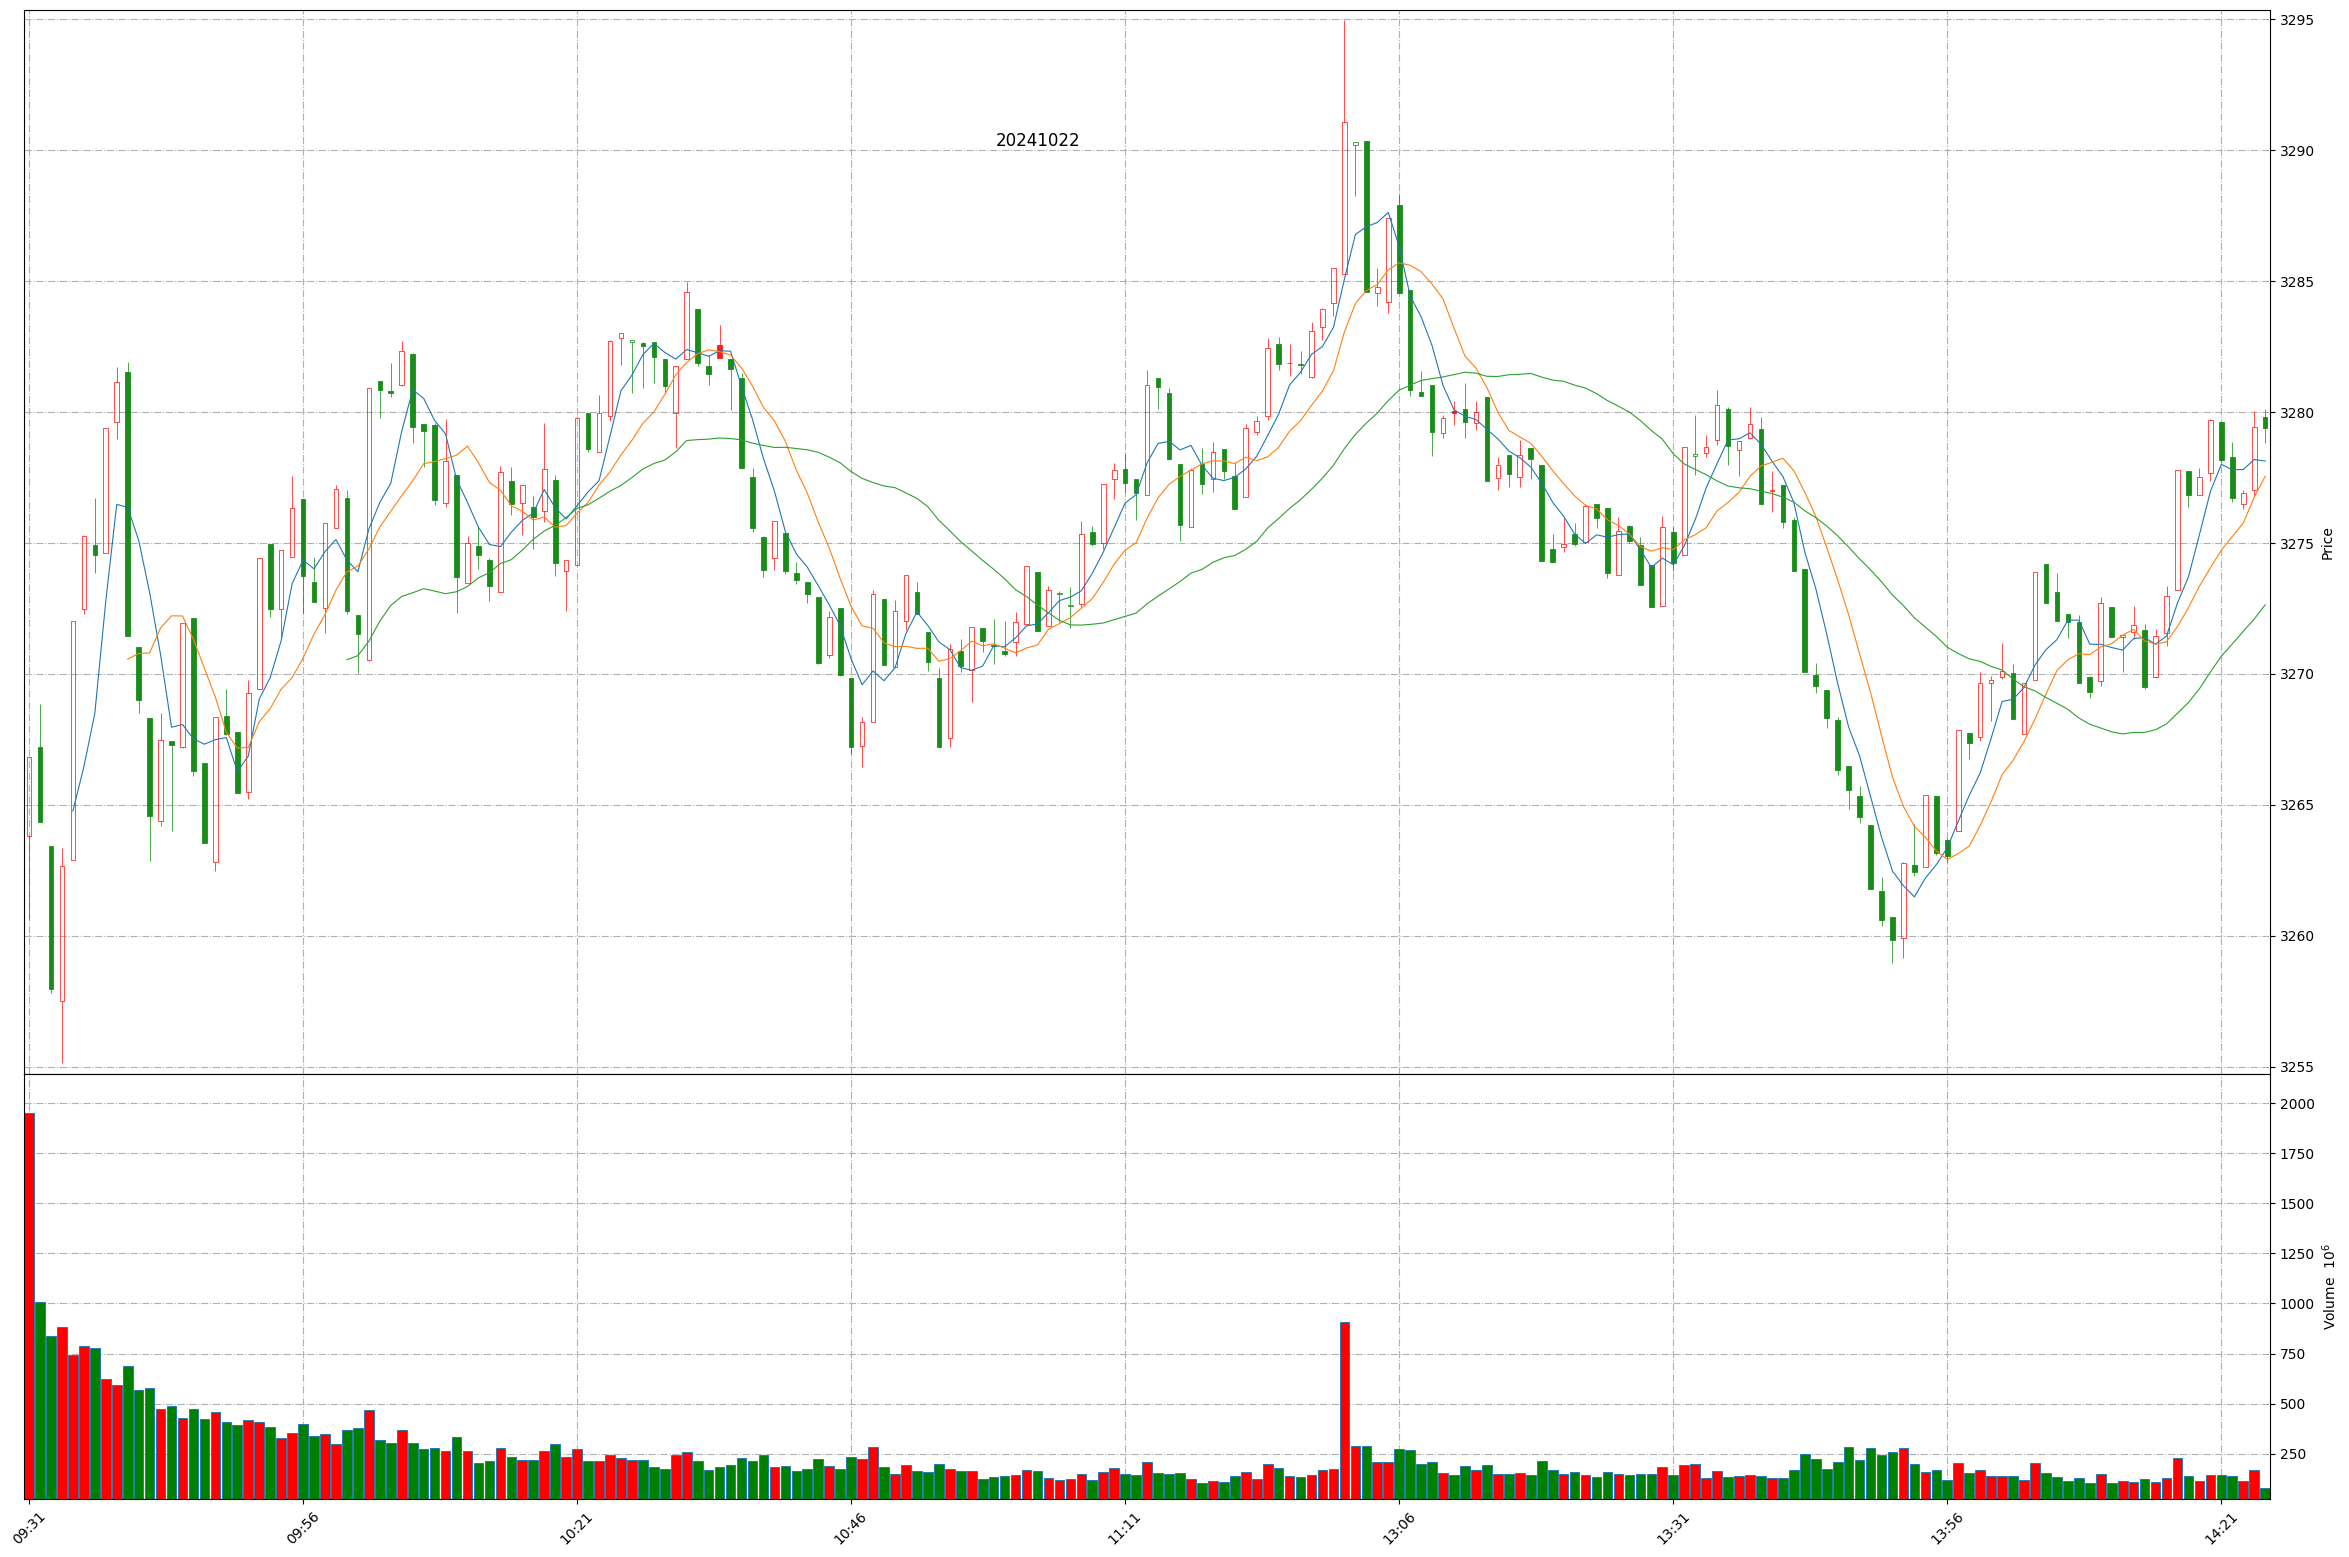
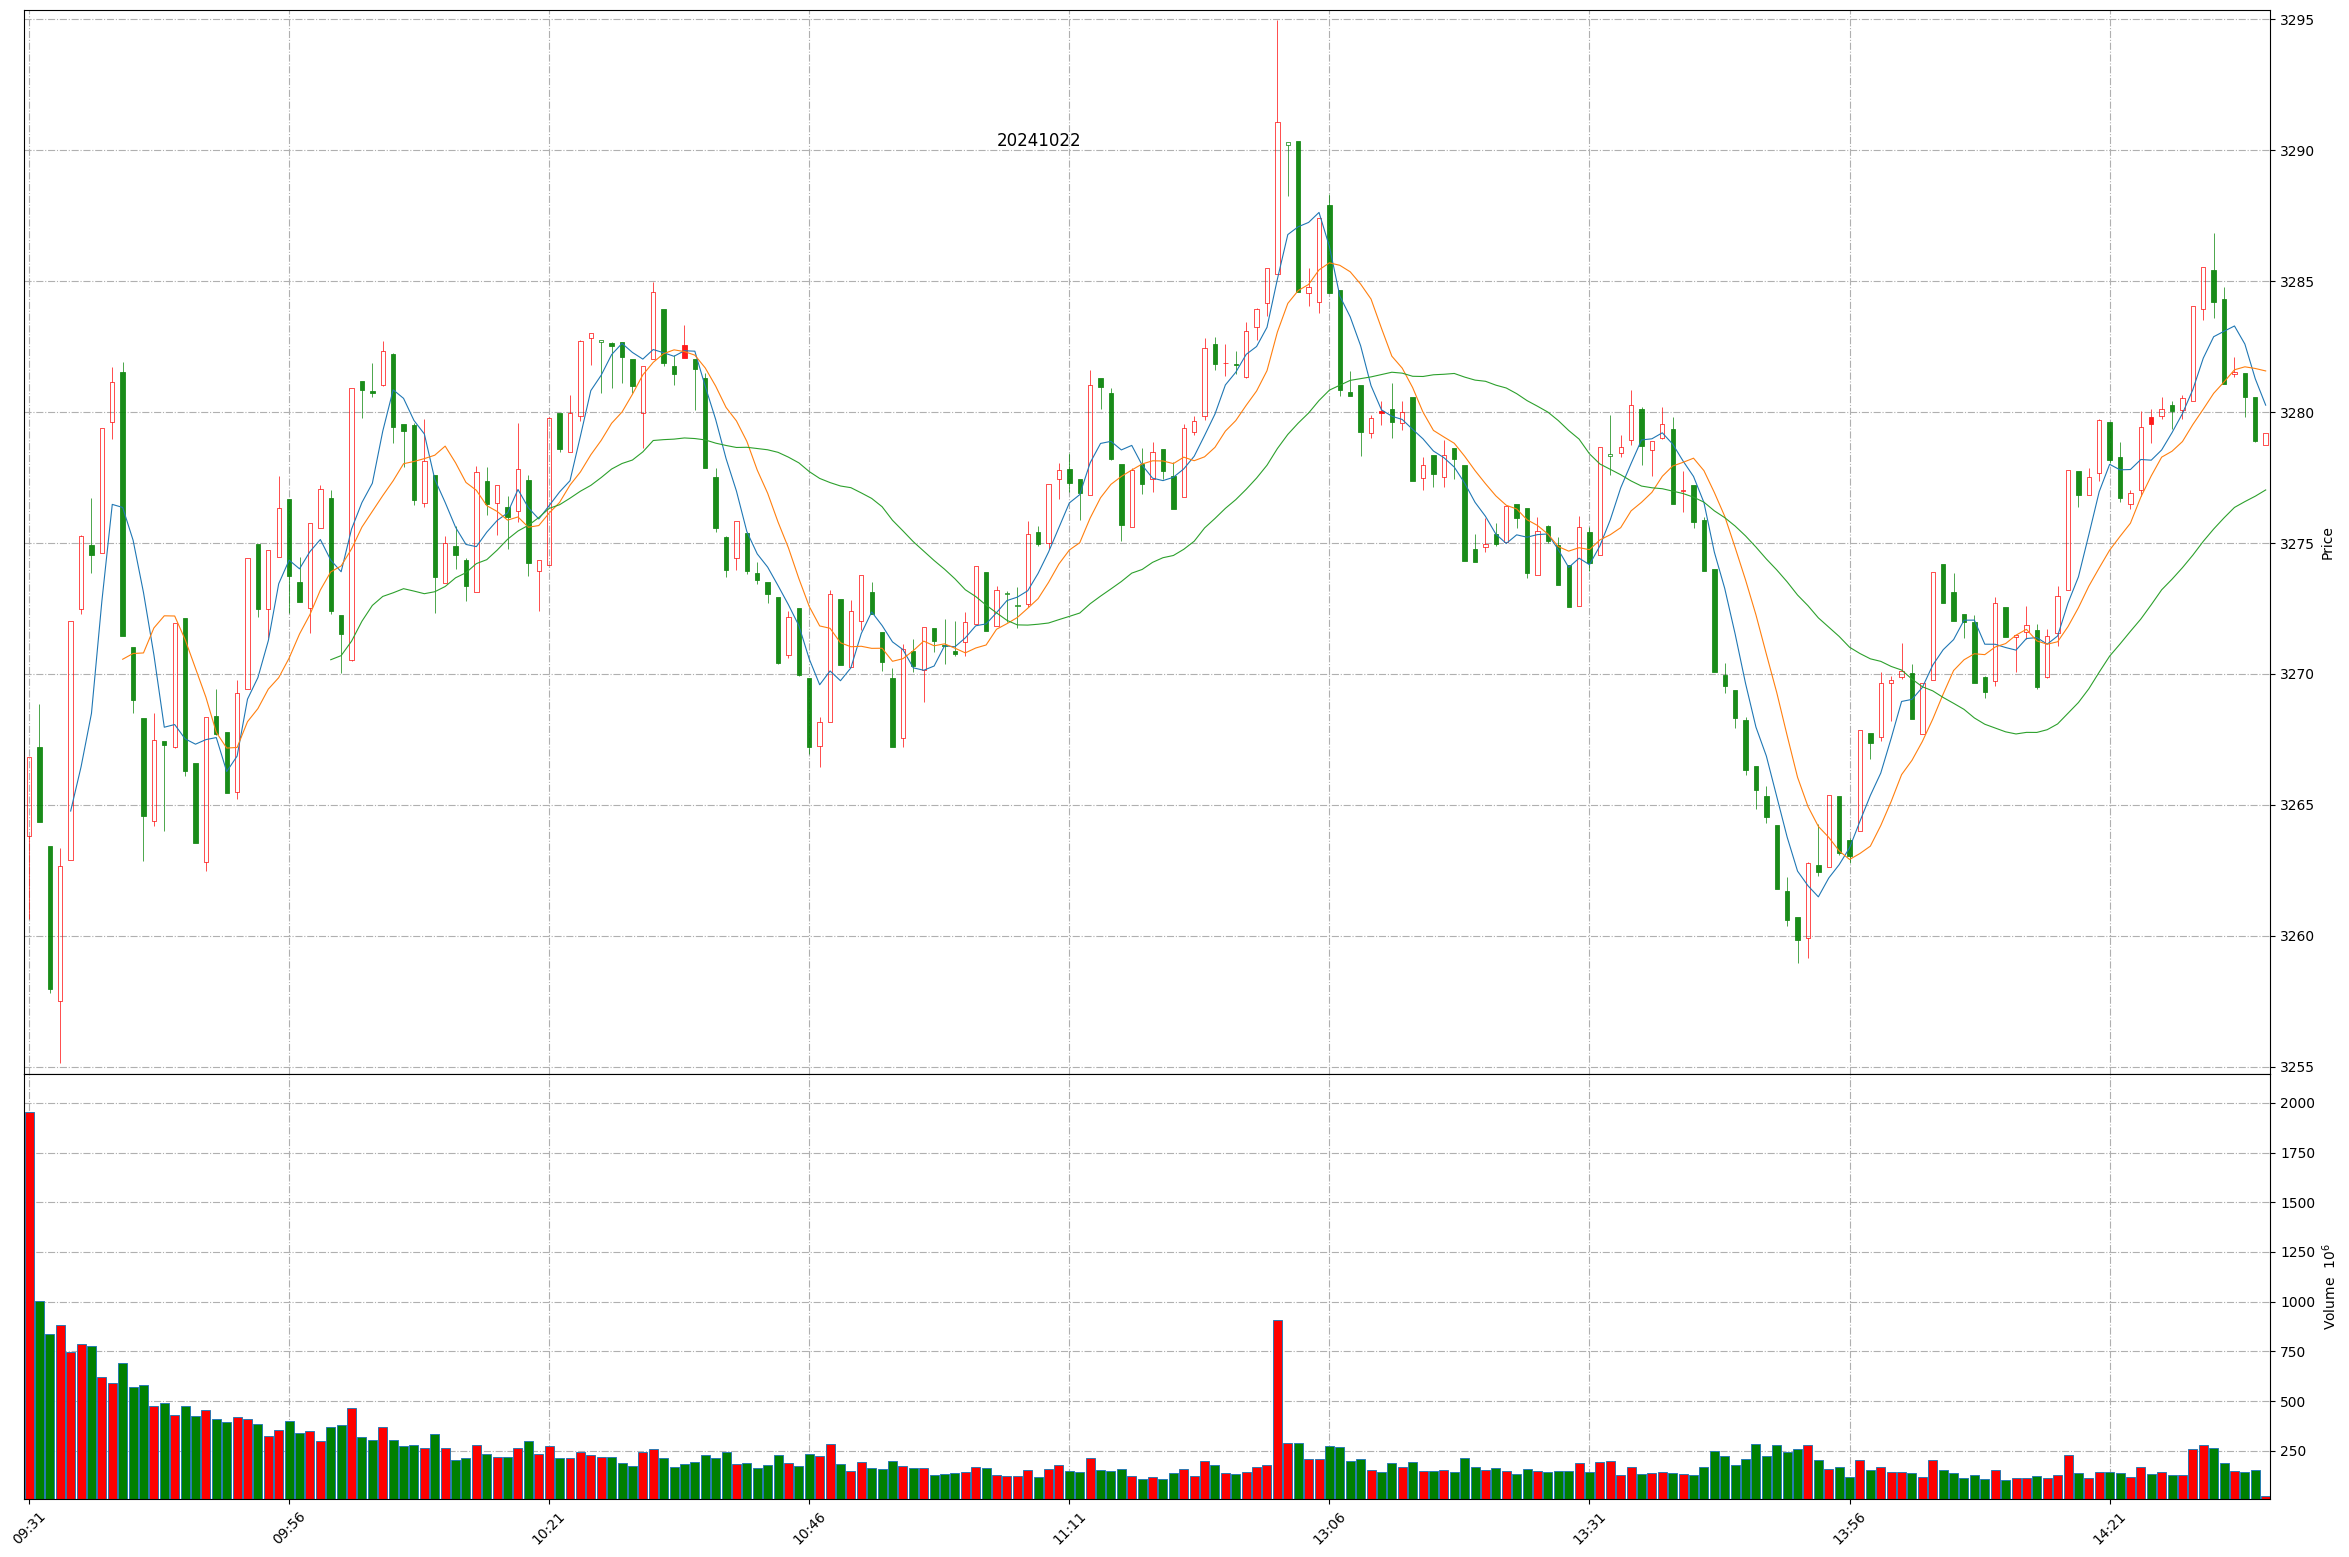
Github action update at 2024-10-22 14:35:21.

Changed region(s): [[0.0311, 0.0925, 0.9634, 0.5857], [0.0, 0.8324, 0.9634, 0.9865]]

diff --git a/README.md b/README.md
@@ -1,11 +1,11 @@
 
 # Daily-A-share-market-quotes 每日 A 股指数（5min 更新）- 20241022
 
-### 上证指数 20241022 14:24
+### 上证指数 20241022 14:35
 ![](./fig/2024/10/20241022-sh000001.png)
 
-### 深证成指 20241022 14:24
+### 深证成指 20241022 14:35
 ![](./fig/2024/10/20241022-sz399001.png)
 
-### 北证50 20241022 14:24
+### 北证50 20241022 14:35
 ![](./fig/2024/10/20241022-bj899050.png)
